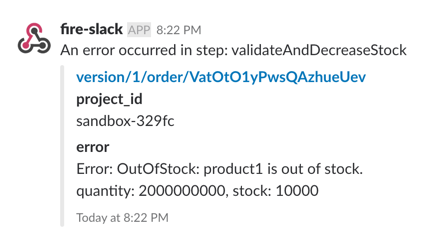
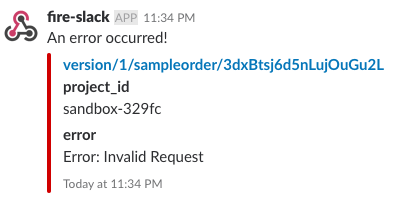
write README

Changed region(s): [[0.1162, 0.2714, 0.9298, 0.9648], [0.0, 0.0302, 0.9588, 0.2412]]

diff --git a/src/test/fire-slack.test.ts b/src/test/fire-slack.test.ts
@@ -4,7 +4,7 @@ import 'jest'
 
 jest.setTimeout(20000)
 
-const adminOptions = <admin.AppOptions> {
+const adminOptions = <admin.AppOptions>{
   databaseURL: 'https://sandbox-329fc.firebaseio.com',
   storageBucket: 'sandbox-329fc.appspot.com',
   apiKey: '',
@@ -24,16 +24,16 @@ beforeAll(() => {
 let user: FirebaseFirestore.DocumentReference
 const id = 'test'
 
-describe('exist options', () => {
+describe.only('exist options', () => {
   test('notification', async () => {
-    const s = await Slack.send({ webhook: { text: 'hoge', attachments: [] }, ref: {path: 'version/1/sampleorder/3dxBtsj6d5nLujOuGu2L' } as any, error: Error('test') })
+    const s = await Slack.send({ webhook: { text: 'An error occurred!', attachments: [{ fields: [{ title: 'custom fields', value: 'custom message', short: true }] }] }, ref: { path: 'version/1/sampleorder/3dxBtsj6d5nLujOuGu2L' } as any, error: Error('Invalid Request') })
     expect(s).toBe('ok')
   })
 })
 
 describe('exist options', () => {
   test('notification', async () => {
-    const s = await Slack.send({ webhook: { text: 'hoge', attachments: [{}] }, ref: {path: 'version/1/sampleorder/3dxBtsj6d5nLujOuGu2L' } as any })
+    const s = await Slack.send({ webhook: { text: 'hoge', attachments: [{}] }, ref: { path: 'version/1/sampleorder/3dxBtsj6d5nLujOuGu2L' } as any })
     expect(s).toBe('ok')
   })
 })

diff --git a/README.md b/README.md
@@ -3,4 +3,56 @@
 </p>
 
 # fire-slack [![npm version](https://badge.fury.io/js/fire-slack.svg)](https://badge.fury.io/js/fire-slack) [![Build Status](https://travis-ci.org/starhoshi/fire-slack.svg?branch=master)](https://travis-ci.org/starhoshi/fire-slack) [![Codacy Badge](https://api.codacy.com/project/badge/Grade/18e7eb400ff544fb89a174782d60c531)](https://www.codacy.com/app/kensuke1751/fire-slack?utm_source=github.com&amp;utm_medium=referral&amp;utm_content=starhoshi/fire-slack&amp;utm_campaign=Badge_Grade) [![License: MIT](https://img.shields.io/badge/License-MIT-green.svg)](https://opensource.org/licenses/MIT)
-Easy to send a slack notification for Cloud Functions
+
+fire-slack is a library that makes it easy and convenient to send Slack's Incoming Webhook from Cloud Functions.
+
+The feature is below.
+
+* Automatically add `project_id`.
+* Add a link url to firebase's database. (optional)
+* Add a error message and change it to red color. (optional)
+
+## Installation
+
+```
+npm install --save fire-slack
+```
+
+## Usage
+
+### 1. Initialize
+
+Initialize fire-slack in your index.ts.
+
+```ts
+import * as Slack from 'fire-slack'
+
+Slack.initialize(
+    <admin.AppOptions>functions.config().firebase,
+    'https://your-incoming-webhook-url',
+    // optional
+    { channel: 'default_channel', iconEmoji: ':default_icon_emoji:', username: 'default_username' } 
+)
+```
+
+### 2. Send to slack
+
+For example, when an error occurs on Cloud Functions.
+
+```ts
+export const orderPaymentRequested = functions.firestore
+    .document(`sampleorder/{orderID}`).onCreate(async event => {
+
+  try {
+    return event.data.ref.update({ name: 'new name' })
+  } catch (error) {
+    // ref and error are optional.
+    await Slack.send({ webhook: { text: 'An error occurred!' }, ref: event.data.ref, error: error })
+    return Promise.reject(error)
+  }
+})
+```
+
+send's webhook options are the same as options in Incoming webhook.
+See [Incoming Webhooks \| Slack](https://api.slack.com/incoming-webhooks) or [typed\-slack\.d\.ts](https://github.com/starhoshi/typed-slack/blob/master/out/typed-slack.d.ts).
+
